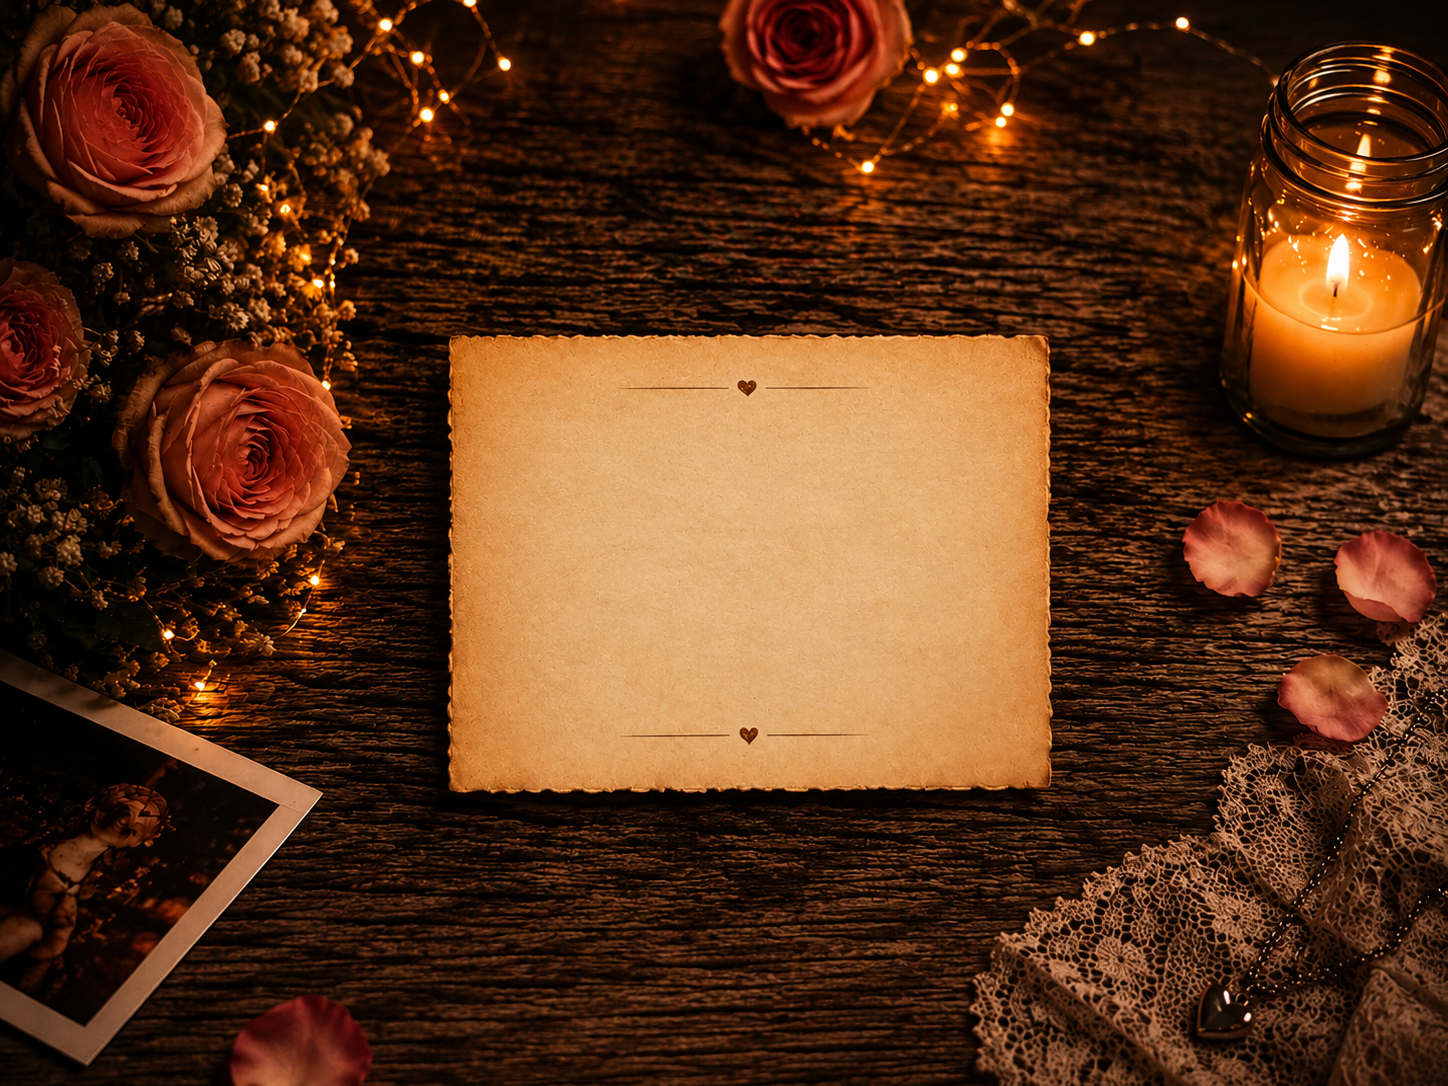
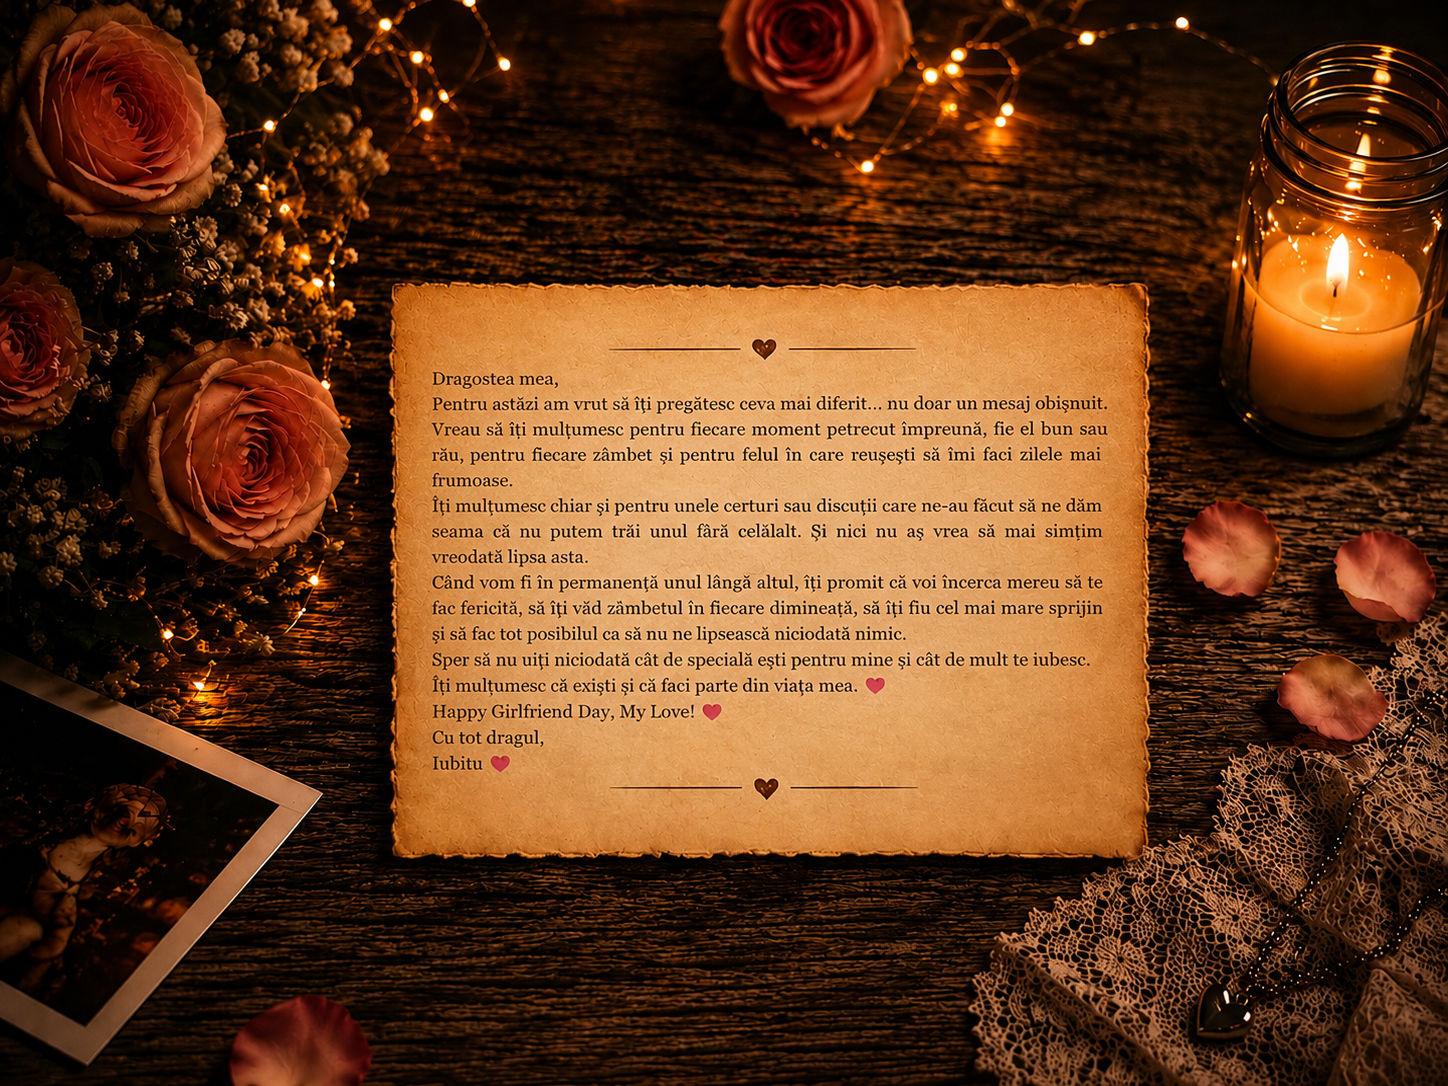
Versiunea finala

diff --git a/js/letter.js b/js/letter.js
@@ -1,45 +1,13 @@
-const text = document.getElementById("text");
 const backBtn = document.getElementById("backBtn");
-
-const message = `Dragostea mea,
-Pentru astăzi am vrut să îți pregătesc ceva mai diferit... nu doar un mesaj obișnuit.
-Vreau să îți mulțumesc pentru fiecare moment petrecut împreună, fie el bun sau rău, pentru fiecare zâmbet și pentru felul în care reușești să îmi faci zilele mai frumoase.
-Îți mulțumesc chiar și pentru unele certuri sau discuții care ne-au făcut să ne dăm seama că nu putem trăi unul fără celălalt. Și nici nu aș vrea să mai simțim vreodată lipsa asta.
-Când vom fi în permanență unul lângă altul, îți promit că voi încerca mereu să te fac fericită, să îți văd zâmbetul în fiecare dimineață, să îți fiu cel mai mare sprijin și să fac tot posibilul ca să nu ne lipsească niciodată nimic.
-Sper să nu uiți niciodată cât de specială ești pentru mine și cât de mult te iubesc.
-Îți mulțumesc că exiști și că faci parte din viața mea. ❤
-Happy Girlfriend Day, My Love! ❤
-Cu tot dragul,
-Iubitu ❤`;
-
-let i = 0;
-
-function typeWriter(){
-
-    if(i < message.length){
-
-        text.innerHTML += message.charAt(i);
-
-        i++;
-
-        setTimeout(typeWriter,35);
-
-    }else{
-
-        backBtn.style.display="block";
-
-    }
-
-}
-
-window.onload = function(){
-
-    typeWriter();
-
-}
 
 const transition = document.getElementById("transition");
 const page = document.querySelector(".page");
+
+window.onload = function(){
+
+    backBtn.style.display = "block";
+
+}
 
 backBtn.onclick = function(){
 
@@ -48,7 +16,9 @@ backBtn.onclick = function(){
     page.style.opacity = "0";
 
     setTimeout(()=>{
+
         window.location.href = "gifts.html";
+
     },400);
 
 }

diff --git a/css/letter.css b/css/letter.css
@@ -22,32 +22,6 @@ body{
 
 }
 
-#text{
-
-    position:absolute;
-
-    top:29.3%;
-
-    left:51.5%;
-
-    transform:translateX(-50%);
-
-    width:36%;
-
-    height:50%;
-
-    color:#4a3527;
-
-    font-size:19px;
-
-    line-height:1.45;
-
-    white-space:pre-line;
-
-    text-align:justify;
-
-}
-
 #backBtn{
 
     position:absolute;
@@ -107,69 +81,50 @@ body{
 
 @media screen and (max-width:900px) and (orientation:landscape){
 
-    body{
+body{
 
-        width:100vw;
-        min-height:108vh;
+    width:100vw;
 
-        overflow-y:auto;
-        overflow-x:hidden;
+    height:auto;
+    min-height:120vh;
 
-        background-position:center;
-        background-size:cover;
+    overflow-x:hidden;
+    overflow-y:auto;
 
-    }
+    background-position:center;
+    background-size:cover;
 
-    #text{
+}
 
-        position:absolute;
+.page{
 
-        top:26.5%;
+    position:relative;
 
-        left:51.8%;
+    width:100%;
+    min-height:120vh;
 
-        transform:translateX(-50%);
+}
 
-        width:31%;
+#backBtn{
 
-        height:52%;
+    position:absolute;
 
-        color:#4a3527;
+    left:50%;
 
-        font-size:clamp(7px,0.8vw,11px);
+    bottom:4%;
 
-        line-height:1.45;
+    transform:translateX(-50%);
 
-        text-align:justify;
+    width:230px;
 
-        white-space:pre-line;
+    max-width:40vw;
 
-        overflow:hidden;
+    padding:12px 20px;
 
-        padding-right:6px;
+    font-size:16px;
 
-    }
+    border-radius:26px;
 
-    #backBtn{
-
-        position:absolute;
-
-        left:50%;
-
-        bottom:6%;
-
-        transform:translateX(-50%);
-
-        width:220px;
-
-        max-width:38vw;
-
-        padding:10px 18px;
-
-        font-size:15px;
-
-        border-radius:24px;
-
-    }
+}
 
 }

diff --git a/letter.html b/letter.html
@@ -14,8 +14,6 @@
 
 <div class="page">
 
-<div id="text"></div>
-
 <button id="backBtn">
     ❤ Înapoi la cadouri ❤
 </button>
